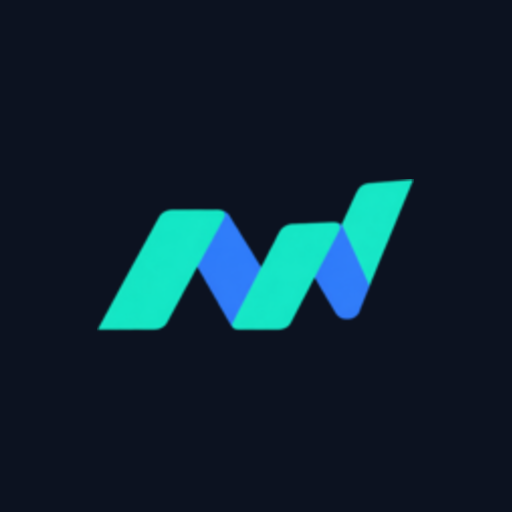
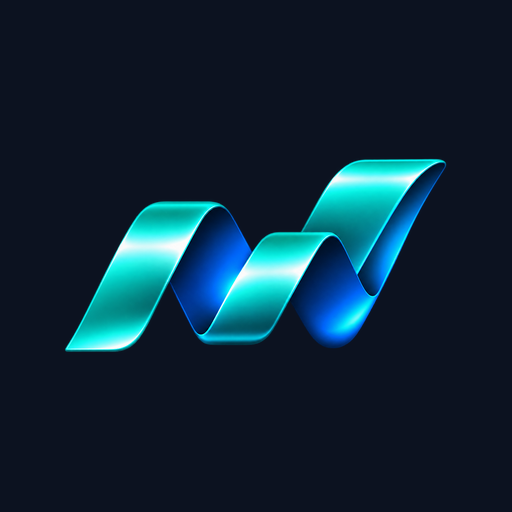
Install approved 3D MJW Life ribbon and wordmark assets

Changed region(s): [[0.125, 0.3125, 0.875, 0.6875]]

diff --git a/index.html b/index.html
@@ -9,9 +9,12 @@
   <meta name="apple-mobile-web-app-title" content="MJW Life" />
   <meta property="og:title" content="MJW Life" />
   <meta property="og:description" content="Own your goals, work and daily progress." />
-  <link rel="icon" type="image/png" href="/brand/mjw-ribbon.png" />
+  <meta property="og:type" content="website" />
+  <meta property="og:image" content="https://mjw-life.vercel.app/brand/mjw-life.webp" />
+  <meta name="twitter:card" content="summary_large_image" />
+  <link rel="icon" type="image/png" href="/brand/mjw-favicon-64.png" />
   <link rel="manifest" href="/manifest.webmanifest" />
-  <link rel="apple-touch-icon" href="/brand/mjw-app-192.png" />
+  <link rel="apple-touch-icon" href="/brand/mjw-apple-touch-180.png" />
   <meta name="apple-mobile-web-app-capable" content="yes" />
   <style>body{margin:0;background:#0c1220}.boot-screen{min-height:100dvh;display:grid;place-items:center}.boot-screen img{width:124px;height:124px}</style>
   <title>MJW Life</title>

diff --git a/src/App.jsx b/src/App.jsx
@@ -93,7 +93,7 @@ export function App() {
 
 /** Official MJW Life marks. The ribbon is the platform's recognisable symbol. */
 function Brand() {
-  return <img className="brand" src="/brand/mjw-life.webp" alt="MJW Life" width="760" height="253" decoding="async" />;
+  return <img className="brand" src="/brand/mjw-life.webp" alt="MJW Life" width="1200" height="327" decoding="async" />;
 }
 
 function RibbonMark({ className = '' }) {

diff --git a/public/brand/BRAND_USAGE.md b/public/brand/BRAND_USAGE.md
@@ -8,8 +8,8 @@ Approved on 7 November 2026.
 
 **Brand constants:** preserve the ribbon shape, gradient, depth and glow. Do not recreate it as flat geometry, rotate it, or add extra words or taglines. Prefer dark navy #0c1220 behind the marks; use transparent assets for large wordmarks and ribbon-only presentation. Ensure adequate clear space and legibility on mobile.
 
-**Canonical asset mapping:** /brand/mjw-life.webp = primary wordmark; /brand/mjw-ribbon.png = standalone symbol; /brand/mjw-app-192.png and /brand/mjw-app-512.png = ribbon-first installed app icons; /manifest.webmanifest = installed app identity. Also set the favicon and Apple touch icon to ribbon-first assets.
+**Canonical asset mapping:** /brand/mjw-life.webp = primary wordmark; /brand/mjw-ribbon.png = standalone ribbon mark for splash and Today navigation; /brand/mjw-app-192.png and /brand/mjw-app-512.png = ribbon-only installed app icons; /brand/mjw-favicon-64.png = browser favicon; /brand/mjw-apple-touch-180.png = Apple launcher icon; /manifest.webmanifest = installed app identity.
 
-**Asset source of truth:** artwork supplied by the MJW Life owner on 7 November 2026. Replace older repository binary images with that exact artwork when importing the brand kit, without redrawing.
+**Asset source of truth:** 3D ribbon and MJW Life wordmark supplied and approved by the MJW Life owner on 7 November 2026. Optimised PNG/WebP derivatives of the approved artwork are now committed under `public/brand/`; do not replace them with an unrelated or flat mark.
 
 **Trademark status:** the ribbon serves as the platform's brand identifier and may be used with trademark notices where appropriate, but no claim of registered trademark status should be made unless the mark has been cleared and registered with the relevant intellectual property authority.
